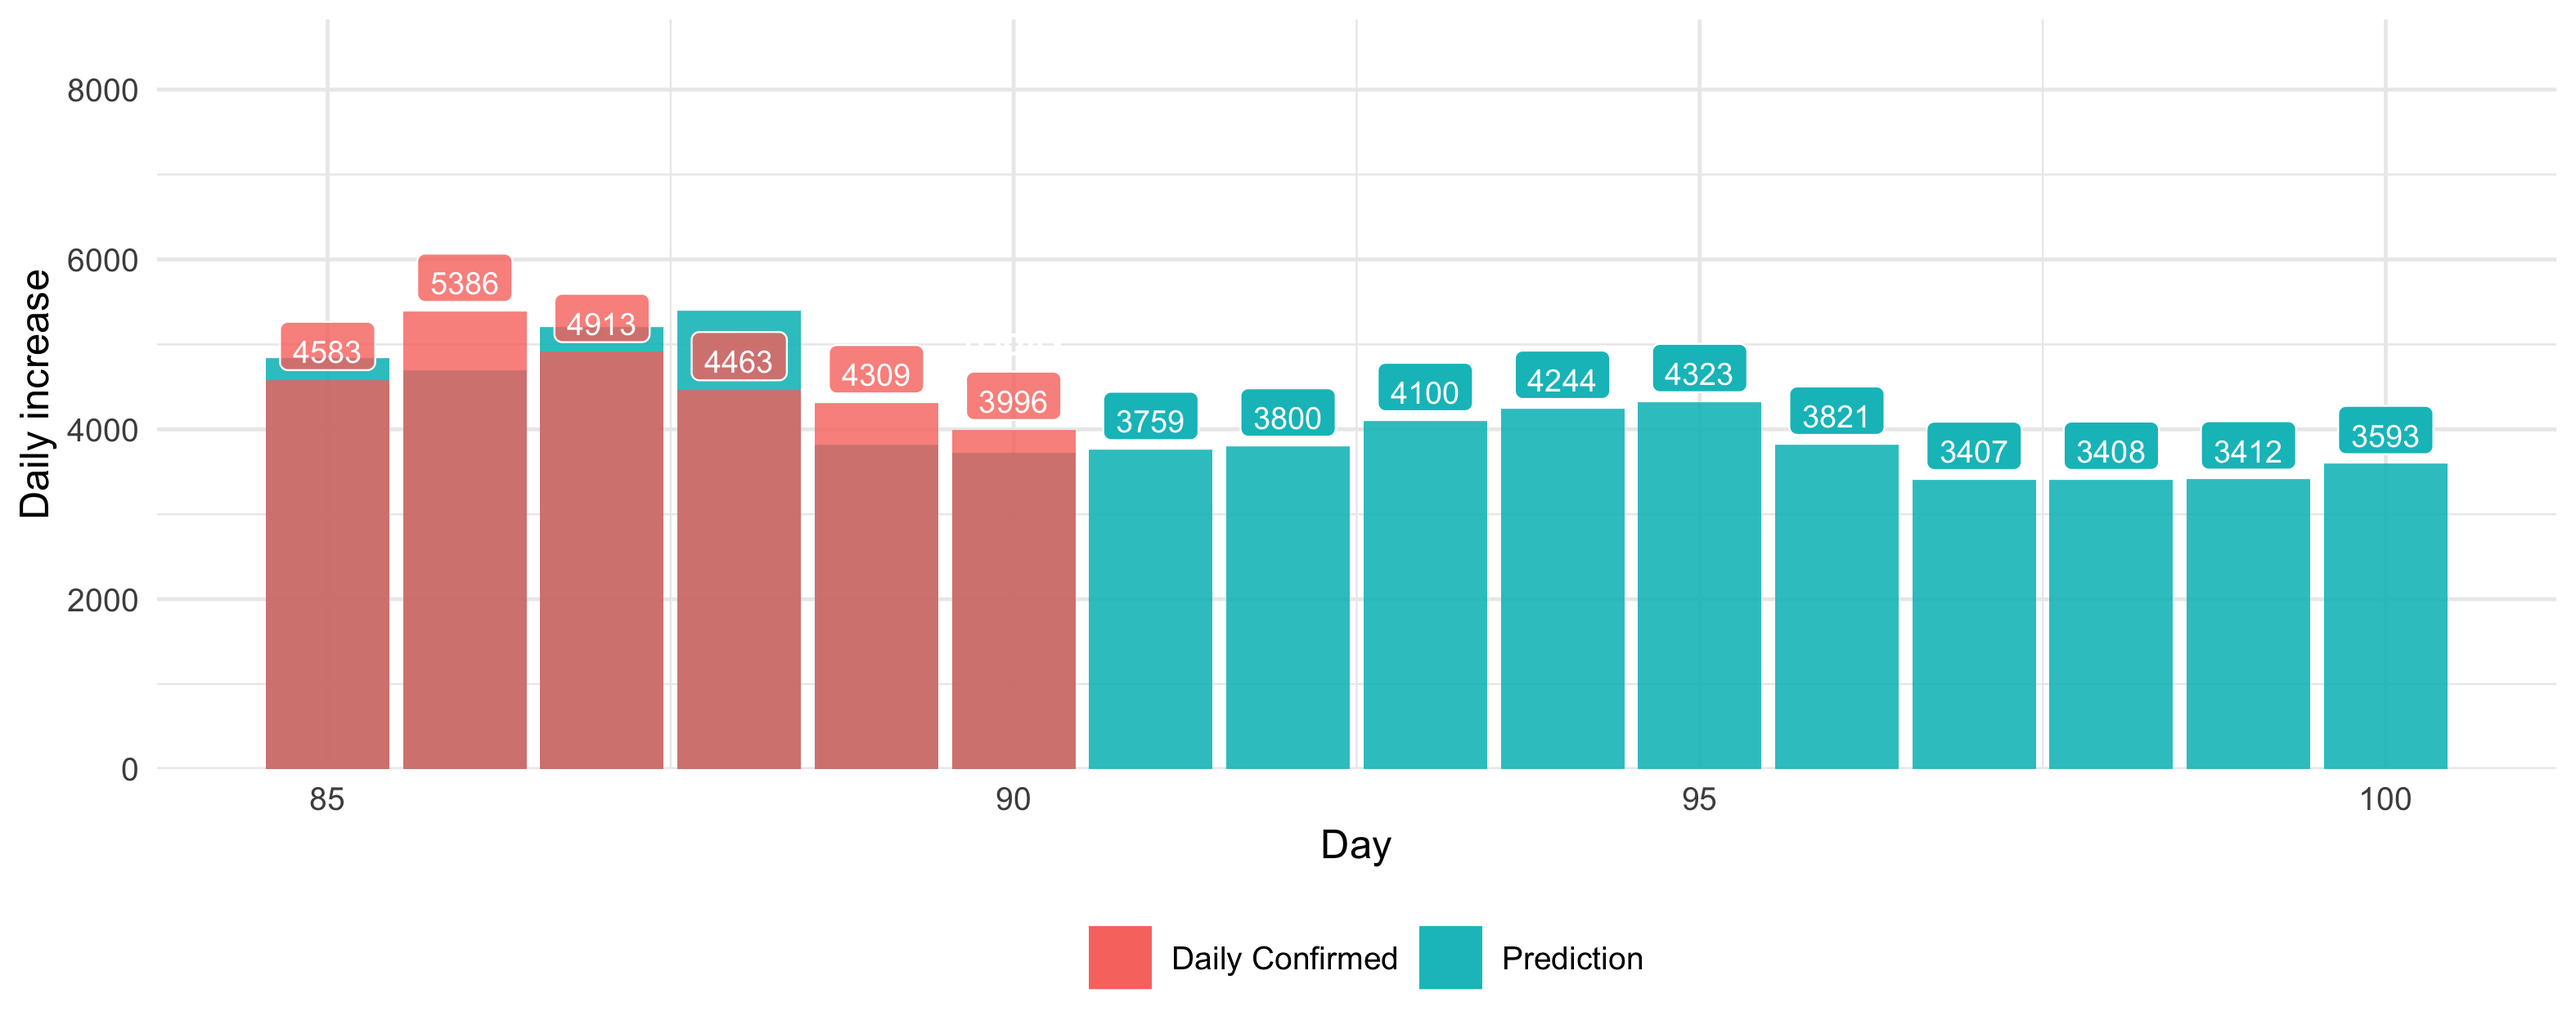
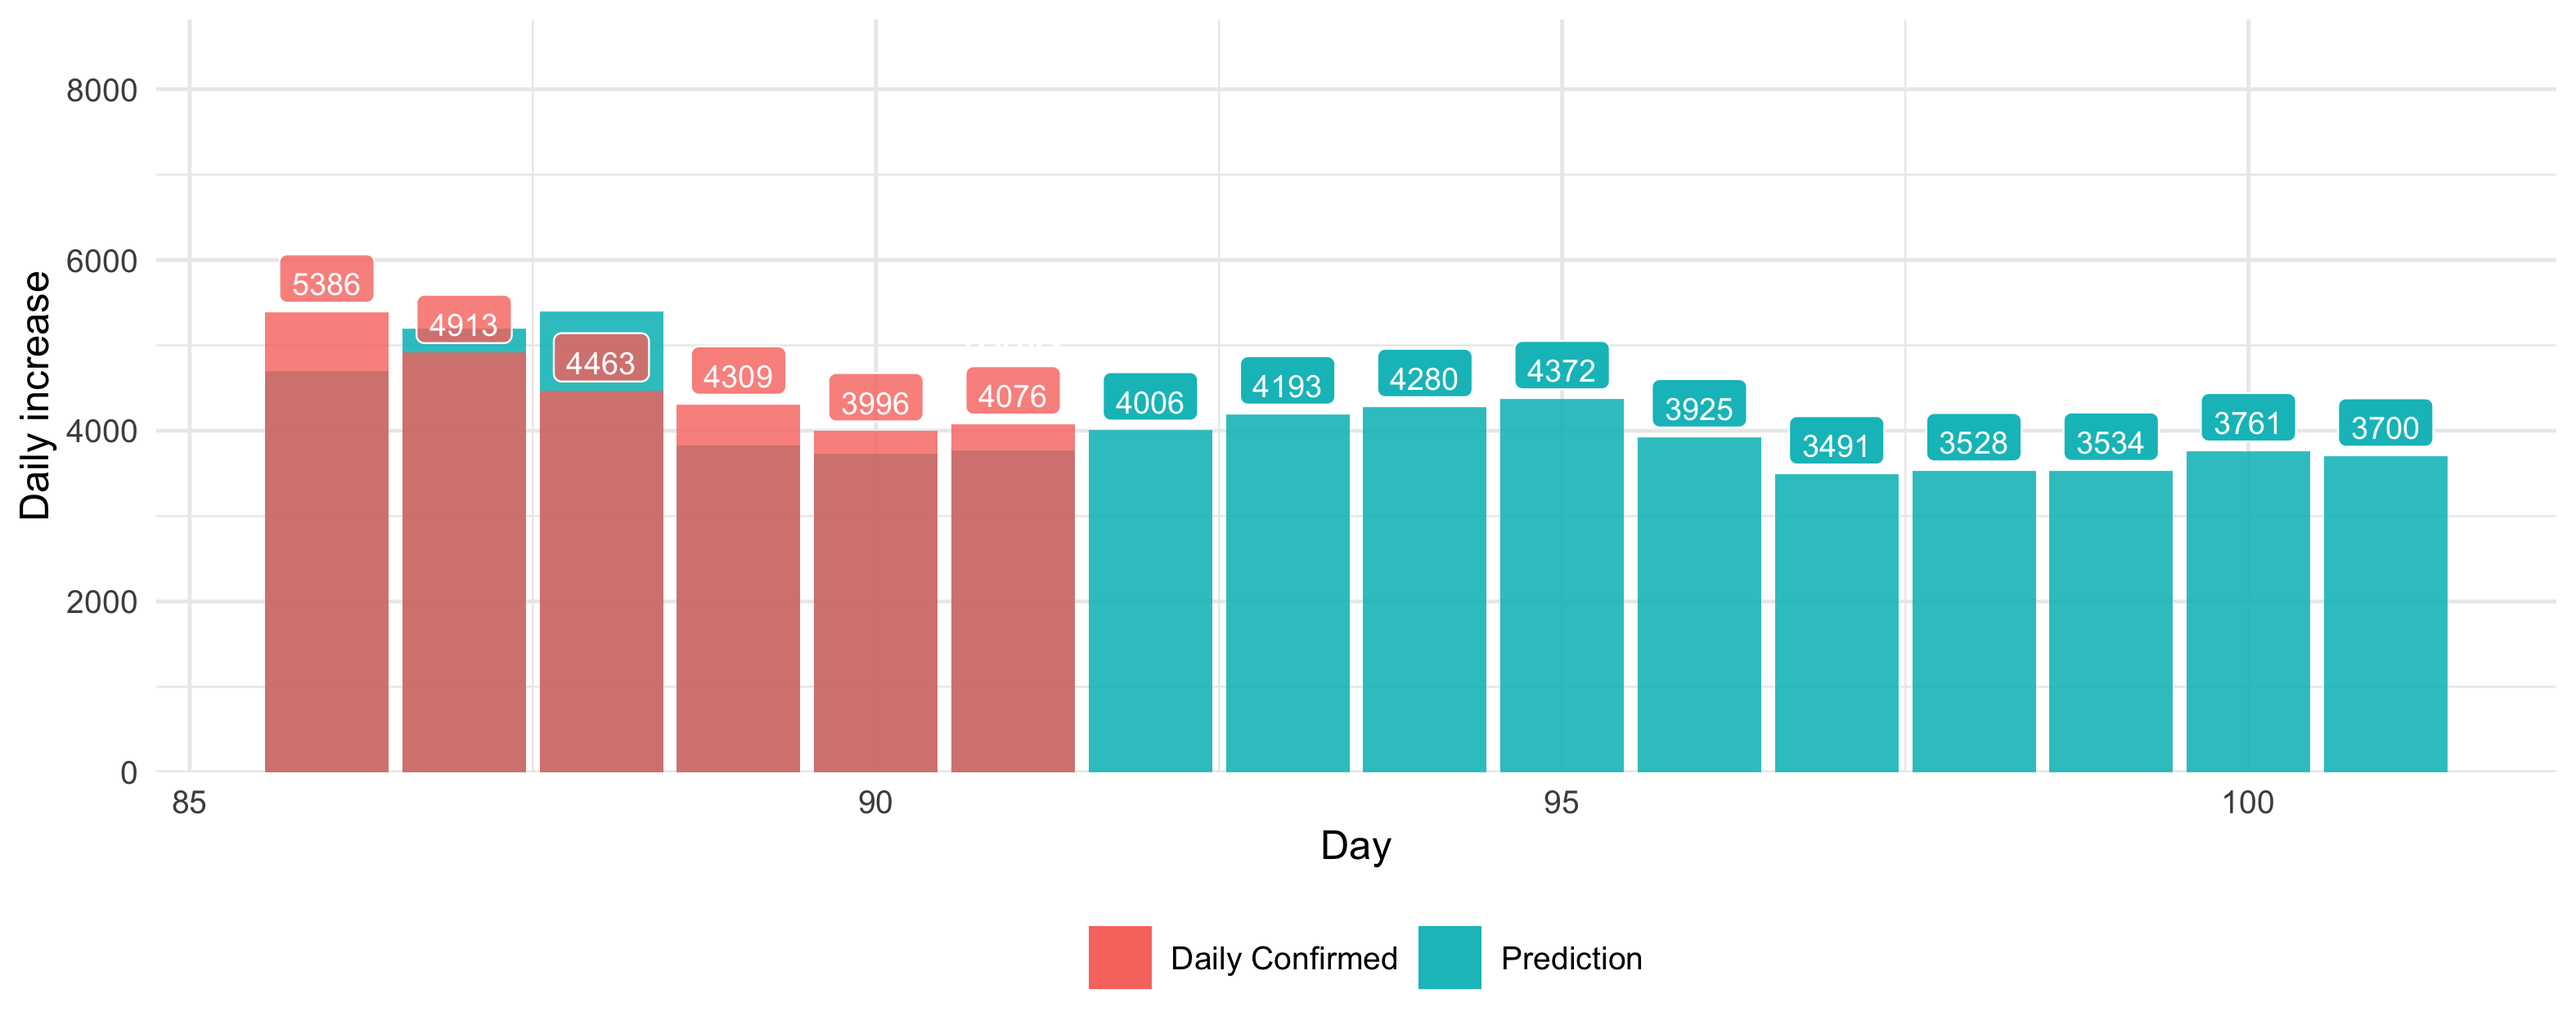
R version updated

diff --git a/index.md b/index.md
@@ -5,7 +5,7 @@
 
 | Confirmed| Death| Cured| Serious| England| Scotland| Wales| N.Ireland|
 |---------:|-----:|-----:|-------:|-------:|--------:|-----:|---------:|
-|    161145| 21678|     0|       0|  114456|    10721|  9512|      3408|
+|    165221| 26097|     0|       0|  114456|    10721|  9512|      3408|
 
 # ARIMA Prediction
 ## Total confirmed
@@ -30,9 +30,11 @@ More about axis and interpretation of Log trend:
 # Current
 ## New cases
 ![daily figure](plot/DailyIncrease.png)
-## New death 
+## New death
 ![death](plot/DeathIncrease.png)
 
+Notes on 29 April increase:
+- [UK deaths pass 26,000 as figures include care home cases](https://www.bbc.co.uk/news/uk-52478085)
 ## UK and EU Log trend
 ![UK trend](plot/UKlogTrend.png)
 
